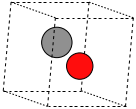
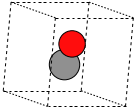
Plot all tested positions of atoms of first version.

Changed region(s): [[0.2941, 0.2202, 0.7059, 0.7431]]

diff --git a/Geopt/Model/EAperAtom.py b/Geopt/Model/EAperAtom.py
@@ -26,7 +26,7 @@ def StartEA(elementsList):
     population = []
     bestMolecules = []
     # This will become a dataset for the potential energy plot.
-    plotE, plotX, plotY, plotZ, plotSym = [], [], [], [], []
+    plot = []
 
     if __name__ == 'Model.EAperAtom':
         with futures.ProcessPoolExecutor() as executor:
@@ -36,11 +36,7 @@ def StartEA(elementsList):
                 population.append([thisResult[0], thisResult[1]])
                 # Append separately from each process to prevent them being added in the wrong order by multiple process
                 # attempting to write at the same time. Long-winded but done to avoid corruption and unnecessary locks.
-                plotE.append(thisResult[2])
-                plotX.append(thisResult[3])
-                plotY.append(thisResult[4])
-                plotZ.append(thisResult[5])
-                plotSym.append(thisResult[6])
+                plot.append(thisResult[2])
         population = RankByE(population, 3)
         for eachBest in population:
             newMolecule = Atoms(eachBest[0], cell=boxSize)
@@ -50,13 +46,12 @@ def StartEA(elementsList):
         # newMolecule = Atoms(eachBest, pbc=false, cell=boxSize)
         # or
         # newMolecule.set_pbc((False, False, False))
-        print("len(plotE):", len(plotE))
 
-    return bestMolecules, population, plotE, plotX, plotY, plotZ, plotSym
+    return bestMolecules, population, plot
 
 
 def Evolve(elementsList, boxSize, covRads, calc):
-    allE, allX, allY, allZ, sym = [], [], [], [], []
+    plot = []
     buildUp = []
     buildUpBestStructure = buildUp
     firstCoordinates = [0, 0, 0]
@@ -75,7 +70,7 @@ def Evolve(elementsList, boxSize, covRads, calc):
 
         # Move each atom around every atom.
         buildUpBestEnergy, buildUpBestStructure = TestAllPlaces(buildUp, buildUpBestEnergy, buildUpBestStructure, onlyH,
-                                                                covRads, boxSize, calc, None, None, None, None, None)
+                                                                covRads, boxSize, calc, None)
     print("this best energy:", buildUpBestEnergy)
 
     similarity = 0
@@ -84,8 +79,7 @@ def Evolve(elementsList, boxSize, covRads, calc):
     while similarity < 2:
         # Move each atom around every atom.
         newBestEnergy, newBestStructure = TestAllPlaces(buildUp, buildUpBestEnergy, buildUpBestStructure, onlyH,
-                                                        covRads, boxSize, calc, allE, allX, allY, allZ, sym)
-        print("len(allE):", len(allE))
+                                                        covRads, boxSize, calc, plot)
         if abs(newBestEnergy - buildUpBestEnergy) < 0.5:
             similarity += 1
         else:
@@ -95,10 +89,10 @@ def Evolve(elementsList, boxSize, covRads, calc):
             buildUpBestStructure = newBestStructure
             buildUp = newBestStructure
         iterations += 1
-    return buildUp, buildUpBestEnergy, allE, allX, allY, allZ, sym
+    return buildUp, buildUpBestEnergy, plot
 
 
-def TestAllPlaces(buildUp, bestEnergy, bestStructure, onlyH, covRads, boxSize, calc, allE, allX, allY, allZ, sym):
+def TestAllPlaces(buildUp, bestEnergy, bestStructure, onlyH, covRads, boxSize, calc, plot):
     # Move each atom around every atom.
     numSoFar = len(buildUp)
     for eachAtomToMove in range(numSoFar):
@@ -117,13 +111,9 @@ def TestAllPlaces(buildUp, bestEnergy, bestStructure, onlyH, covRads, boxSize, c
 
                     # Now we need to maintain a dataset of all possible positions and their associated energies to
                     # show the energy plot but we only want to do this when all atoms are in the molecule.
-                    if allE is not None:
-                        # Made the arrays separate because it means fewer iterations and less indexing later on.
-                        allE.append(currentEnergy)
-                        allX.append(x)
-                        allY.append(y)
-                        allZ.append(z)
-                        sym.append(move.symbol)
+                    if plot is not None:
+                        # Separate the arrays for fewer iterations and less indexing later on.
+                        plot.append((currentEnergy, x, y, z, move.symbol))
 
                     del newMolecule
                     if currentEnergy < bestEnergy:

diff --git a/Geopt/View/Analysis.py b/Geopt/View/Analysis.py
@@ -12,23 +12,25 @@ from View.Shared import SetUpWindow
 def StartAnalysis(elementsList):
     window = tk.Toplevel()
     SetUpWindow(window)
-    bestMolecules, population, plotE, plotX, plotY, plotZ, plotSym = DoTheEA(elementsList)
+    bestMolecules, population, plot = DoTheEA(elementsList)
 
-    # ElementsList can be used for symbols?
-    print('plotX:', plotX)
-    print('plotSym:', plotSym)
-    #for processed in plotXYZ:
-        #for atomMoved in processed:
-                #print('x coords:', atomMoved[0])
+    print('plot:', plot)
+    for atomVersion in plot:
+        print('atomVersion:', atomVersion)
 
-    x = np.arange(-5, 5, 0.25)
-    y = np.arange(-5, 5, 0.25)
-    r = np.sqrt(x ** 2 + y ** 2)
-    z = np.sin(r)
+    firstPlot = plot[0]
+    firstPlot = np.array(firstPlot)
+    E = firstPlot[:, 0].astype('float64')
+    x = firstPlot[:, 1].astype('float64')
+    y = firstPlot[:, 2].astype('float64')
+    z = firstPlot[:, 3].astype('float64')
+    s = firstPlot[:, 4]
 
     testFig = plt.figure()
     ax = testFig.add_subplot(111, projection='3d')
-    ax.scatter(x, y, z)
+    # Change the markers to be the symbols and colour according to energy.
+    ax.scatter(x, y, z, marker='${}$'.format('.'))
+    # Add all 6 versions to the plot.
     plt.savefig("Images/fig3.png")
 
     for i in range(3):

diff --git a/Geopt/Controller/Analysis.py b/Geopt/Controller/Analysis.py
@@ -5,5 +5,5 @@ from Model.EAperAtom import StartEA
 
 
 def DoTheEA(elementsList):
-    bestMolecules, population, plotE, plotX, plotY, plotZ, plotSym = StartEA(elementsList)
-    return bestMolecules, population, plotE, plotX, plotY, plotZ, plotSym
+    bestMolecules, population, plot = StartEA(elementsList)
+    return bestMolecules, population, plot
